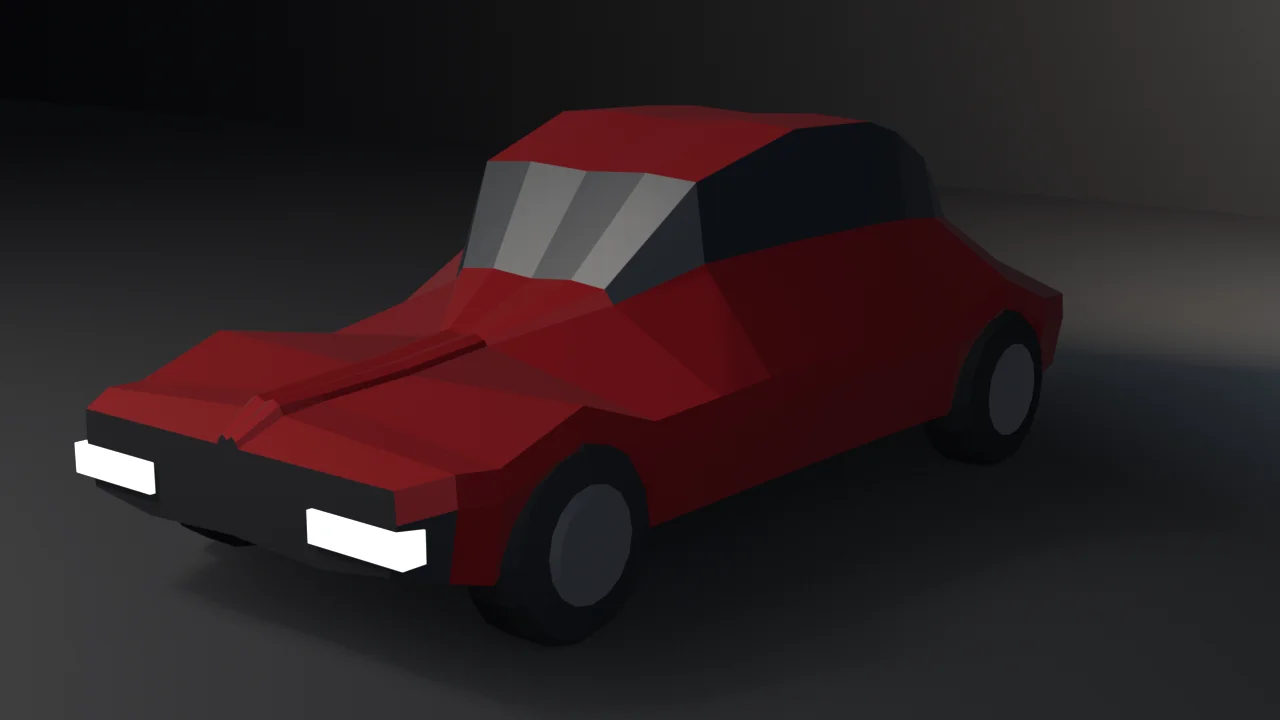
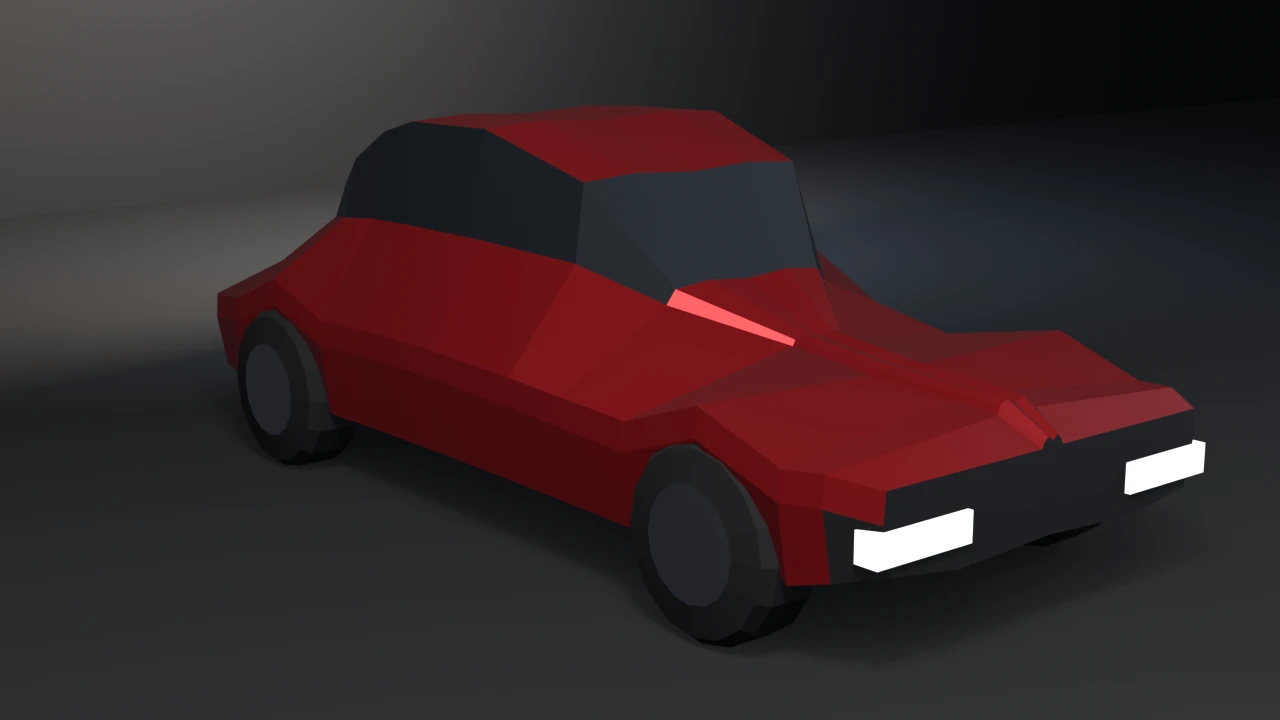
fix(examples): stand the car-mirror-symmetry camera on the key's side
The key light is at -X but the camera stood at +X, so the flank it saw was
the one the key cannot reach and the whole visible side rendered
near-black: the hero measured luma 0.138, below the 0.151 calibration floor.
The car is mirror-symmetric, so mirroring the camera keeps the composition;
luma is now 0.169. Render path only. Exit codes unchanged on 4.5.11, 5.1.2
and 5.2.1 (default 0, --no-mirror 5, --output 0), and every measured line
matches the baseline. Shared gallery index rides here.

diff --git a/docs/gallery/car-mirror-symmetry/index.html b/docs/gallery/car-mirror-symmetry/index.html
@@ -283,7 +283,7 @@
 <ul><li><strong>Original holds the half.</strong> Body datablock is exactly 126 verts / 231 edges / 106 faces (14 × 9, loft closed forms), with exactly 28 centerline verts (probe: modifier applied into data → exit 3, datablock reads <code>(224, 434, 212)</code>).</li><li><strong>Evaluated is the welded whole.</strong> Exactly <code>2n − c = 224</code> verts (probe: <code>use_mirror_merge = False</code> → exit 5, <strong>252</strong> verts — the doubled seam; probe: one centerline vert pulled off the plane → exit 4, <strong>27 ≠ 28</strong> welded; probe: mirror axis off → exit 5, <strong>126</strong> — the half-car). The evaluated shell is watertight (every edge borders 2 faces) with Euler characteristic <strong>2</strong> — the two halves weld into a topological sphere.</li><li><strong>Exact ±X partners.</strong> Every evaluated vertex has a partner at negated X: measured deviation <strong>0.000e+00</strong> (mirror copies exactly; tol 2e-5 guards float32), evaluated bbox symmetric (<code>min.x == −max.x</code>).</li><li><strong>Mirrored parts.</strong> Wheels (96/81 half → 192/162 evaluated) and lamps (8/6 → 16/12) each double across the plane with partner deviation 0.0 — and each object origin reads <code>x == 0</code>.</li></ul>
 <p><strong>Why the checks target the modifier, not the base:</strong> mutating a non-plane base vertex cannot break the ±X pairing — the evaluated set is always <code>half ∪ mirror(half)</code>, symmetric by construction. Realistic failures live in the modifier (merge off, axis off, modifier applied into data, origin off the plane), which is what the probes break.</p>
 <p><strong>Version witness:</strong> check output is byte-identical on Blender 4.5.11 LTS and 5.1.2. Mirror, <code>evaluated_get</code> / <code>to_mesh</code> / <code>to_mesh_clear</code> (no argument — passing the mesh raises TypeError on both), and <code>TRACK_TO</code> constraint behavior are stable across the pair; only the EEVEE engine id is version-gated.</p>
-<p>The render is the proof: hide the mirror and the still is literally half a car — halved windshield and hood at the centerline, one headlamp. Render notes: the loft is faceted by design (flat shading, no bevel modifier — the modifier stack is Mirror only, so counts stay closed-form); the window band is glass by construction class (steepest roof-rise slope is the windshield, steepest drop the rear window, ring segment 5 the side windows), and the glass is dielectric — metallic glass mirrors the key light and renders the windshield as a hot salmon slab.</p>
+<p>The render is the proof: hide the mirror and the still is literally half a car — halved windshield and hood at the centerline, one headlamp. Render notes: the loft is faceted by design (flat shading, no bevel modifier — the modifier stack is Mirror only, so counts stay closed-form); the window band is glass by construction class (steepest roof-rise slope is the windshield, steepest drop the rear window, ring segment 5 the side windows), and the glass is dielectric — metallic glass mirrors the key light and renders the windshield as a hot salmon slab. The camera stands on the key light&#x27;s side of the car: from the other side it saw only the flank the key cannot reach, and the whole visible side rendered near-black. The car is mirror-symmetric, so the composition is the same either way. The bright streak along the cowl below the windshield is the key&#x27;s highlight in a crease that faces it.</p>
 <h2>Run</h2>
 <pre><code># Cheap correctness check (no render) — the CI check:
 blender --background --python car_mirror_symmetry.py --
@@ -788,7 +788,10 @@ TOL_PLANE = <span class="n">1.0e-6</span>   <span class="c"># |x| this small cou
     cam_data = bpy.data.cameras.new(<span class="s">&quot;Cam&quot;</span>)
     cam_data.lens = <span class="n">52.0</span>
     cam = bpy.data.objects.new(<span class="s">&quot;Cam&quot;</span>, cam_data)
-    cam.location = (<span class="n">4.4</span>, -<span class="n">5.3</span>, <span class="n">2.1</span>)
+    <span class="c"># On the key&#x27;s side (-X): the car is mirror-symmetric, so this is the</span>
+    <span class="c"># same composition, but at +X the camera saw the flank the key cannot</span>
+    <span class="c"># reach and the whole visible side rendered near-black.</span>
+    cam.location = (-<span class="n">4.4</span>, -<span class="n">5.3</span>, <span class="n">2.1</span>)
     scene.collection.objects.link(cam)
     track = cam.constraints.new(<span class="s">&#x27;TRACK_TO&#x27;</span>)  <span class="c"># data API, not bpy.ops (damped-track-aim)</span>
     track.target = aim

diff --git a/docs/gallery/index.html b/docs/gallery/index.html
@@ -981,12 +981,12 @@
       </article>
       <article class="card" data-tags="mesh export showcase">
         <a class="card-media" href="terrain-scatter/" tabindex="-1" aria-hidden="true">
-          <img src="assets/terrain-scatter-hero.webp" alt="A square tile of dark rolling earth with nine faceted grey rocks seated across the hill, none touching." loading="lazy" decoding="async" />
+          <img src="assets/terrain-scatter-hero.webp" alt="A square tile of dark rolling earth with a rounded edge, nine faceted grey stones from cobble to boulder sunk into the ground across the hill." loading="lazy" decoding="async" />
         </a>
         <div class="card-body">
           <h2><a href="terrain-scatter/">terrain-scatter</a></h2>
-          <p class="teaches">A Geometry Nodes hill tile with seated icosphere scatter through UVs, bake, LOD, collider, and Unity glTF, asserting recomputed budgets rather than an API contract.</p>
-          <p class="witnesses"><span class="tag">witnesses</span> Recomputed: 1758 tris, two materials with 720 stone faces, UVs in 0..1 with zero AABB overlap, outer AABB 1.800×1.800×0.552 m, grounded zmin, 9 stones of ≥80 faces seated on sampled dirt Z (offset −35 mm, floor zmin 0.113 m), LOD ratios in band, convex collider 81 tris, hygiene zero, non-empty glTF. --skip-decimate exits 9; --stray-vert 15; --lift-z 16; --poke-rock 17; --float-rocks 18; --box-rocks 19.</p>
+          <p class="teaches">A Geometry Nodes hill tile with embedded, varied stone scatter through UVs, bake, LOD, collider, and Unity glTF, asserting recomputed budgets rather than an API contract.</p>
+          <p class="witnesses"><span class="tag">witnesses</span> Recomputed: 2398 tris, two materials with 720 stone faces, UVs in 0..1 with zero AABB overlap, outer AABB 1.800x1.800x0.570 m, grounded zmin, 9 stones of &gt;=80 faces each sealed into the ground in 8/8 sectors, footprint ratio 9.8, rim tilt step 33.5 deg, no stone pairs overlapping, LOD ratios in band, convex collider 36 tris, hygiene zero, non-empty glTF. --skip-decimate exits 9; --stray-vert 15; --lift-z 16; --poke-rock 17; --float-rocks 18; --box-rocks 19; --pile-rocks 20; --perch-rocks 21; --uniform-rocks 22; --sharp-rim 23.</p>
           <a class="card-link" href="terrain-scatter/">View showcase piece<span class="sr-only"> terrain-scatter</span> <span aria-hidden="true">&rarr;</span></a>
         </div>
       </article>

diff --git a/examples/car-mirror-symmetry/car_mirror_symmetry.py b/examples/car-mirror-symmetry/car_mirror_symmetry.py
@@ -481,7 +481,10 @@ def render_still(objs, path, engine):
     cam_data = bpy.data.cameras.new("Cam")
     cam_data.lens = 52.0
     cam = bpy.data.objects.new("Cam", cam_data)
-    cam.location = (4.4, -5.3, 2.1)
+    # On the key's side (-X): the car is mirror-symmetric, so this is the
+    # same composition, but at +X the camera saw the flank the key cannot
+    # reach and the whole visible side rendered near-black.
+    cam.location = (-4.4, -5.3, 2.1)
     scene.collection.objects.link(cam)
     track = cam.constraints.new('TRACK_TO')  # data API, not bpy.ops (damped-track-aim)
     track.target = aim

diff --git a/examples/car-mirror-symmetry/README.md b/examples/car-mirror-symmetry/README.md
@@ -50,7 +50,11 @@ modifier stack is Mirror only, so counts stay closed-form); the window band
 is glass by construction class (steepest roof-rise slope is the windshield,
 steepest drop the rear window, ring segment 5 the side windows), and the
 glass is dielectric — metallic glass mirrors the key light and renders the
-windshield as a hot salmon slab.
+windshield as a hot salmon slab. The camera stands on the key light's side
+of the car: from the other side it saw only the flank the key cannot reach,
+and the whole visible side rendered near-black. The car is mirror-symmetric,
+so the composition is the same either way. The bright streak along the cowl
+below the windshield is the key's highlight in a crease that faces it.
 
 ## Run
 
